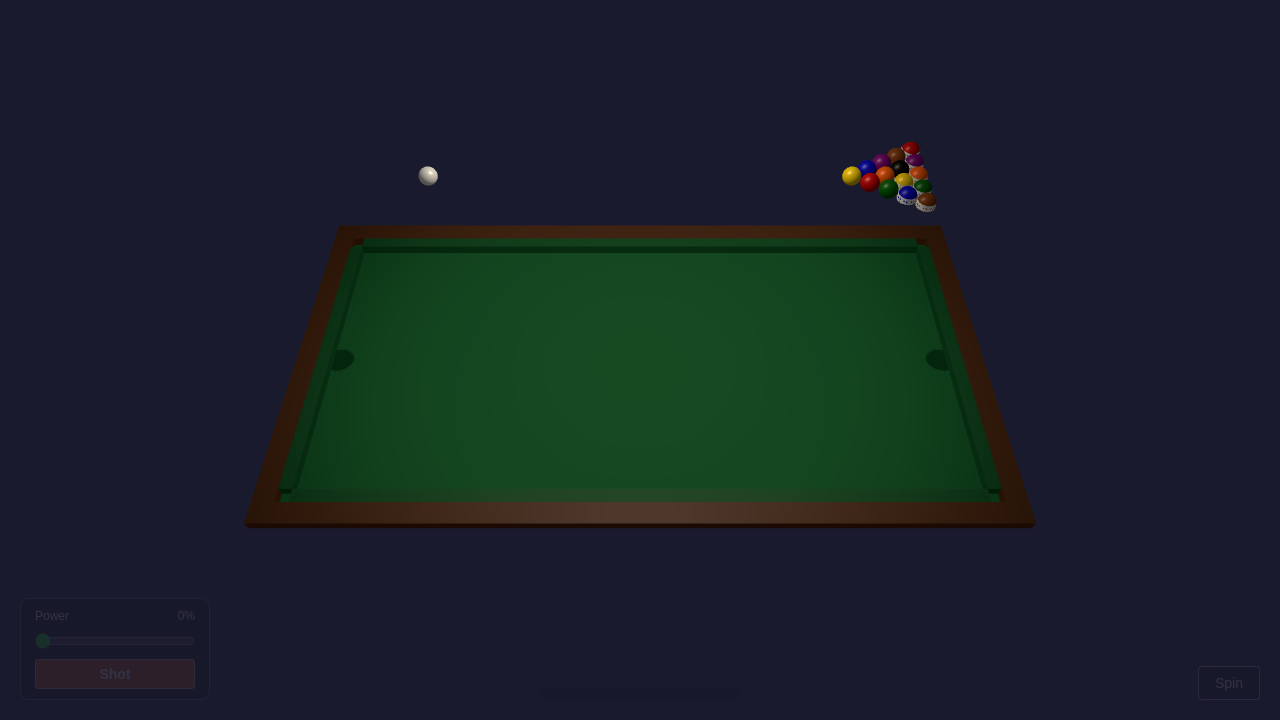
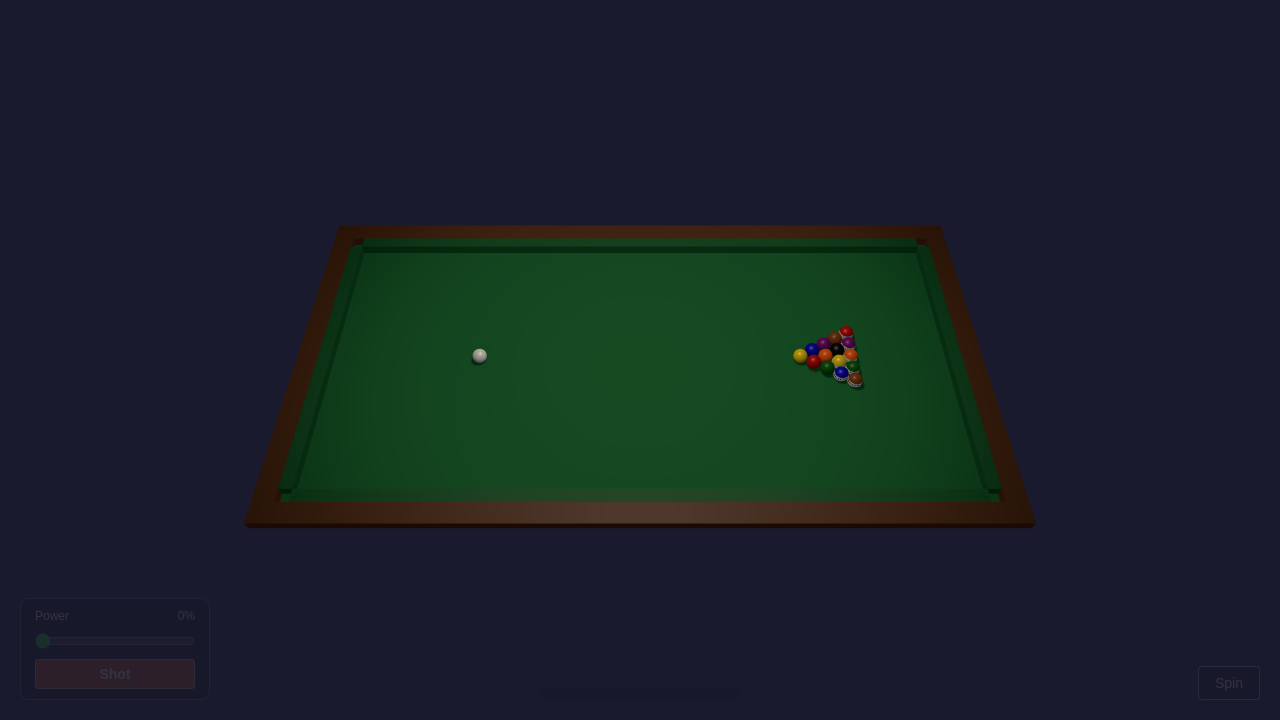
fix(render): physics→THREE Y-origin 對齊，球落絨布（Gate 0 render 視覺修正）
RENDER-001: 修正 ball-pool-physics.ts 三處 updateBallPosition 傳入 physics
絕對 Y（≈0.944m）的 bug——改為 toFloat(y - TABLE_Y) 得到場景相對 Y（≈0.028m），
讓球落在絨布上而非懸浮空中。

同步強化 smoke：
- 新增 RENDER-001 unit 2 tests（placeBall/start 橋接座標驗證）
- render-smoke.spec.ts 新增 pixel-sampling 斷言：drawImage WebGL canvas
  到 2D offscreen，驗 top-20% 幾乎無內容像素（<1%）、middle 60% 有顯著
  table cloth 內容（153757 px），有效防止球浮空 regression 再次溜過
- THREE renderer 加 preserveDrawingBuffer:true 使 pixel sampling 可行
- vite.config.ts exclude tests/smoke/ 避免 Vitest 誤跑 Playwright 檔

diff --git a/tests/smoke/render-smoke.spec.ts b/tests/smoke/render-smoke.spec.ts
@@ -197,4 +197,78 @@ test.describe('Gate 0 render smoke', () => {
     });
     expect(fs.existsSync(path.join(SCREENSHOT_DIR, '03-power-slider-70.png'))).toBe(true);
   });
+
+  test('RENDER-001 regression: balls on table cloth (not floating at top of canvas)', async ({ page }) => {
+    // Regression guard for the physics→THREE Y-origin bug.
+    // Bug: balls passed physics Y≈0.944m raw → rendered above the camera field, at top of canvas.
+    // Fix: subtract TABLE_Y so scene Y≈0.028m → balls appear in the middle 60% of canvas.
+    //
+    // Strategy: with preserveDrawingBuffer=true on the THREE renderer, drawImage copies
+    // the WebGL canvas into an off-screen 2D canvas so we can read pixel data.
+    // Then we assert:
+    //   (a) the top 20% of the canvas has very few non-background pixels
+    //       (background = scene color 0x1a1a2e ≈ rgb(26,26,46))
+    //   (b) the middle 60% (where table cloth lives) has substantially more content
+    await page.goto(BASE_URL, { waitUntil: 'networkidle' });
+    await page.waitForTimeout(2500); // allow first rAF render frame to complete
+
+    const result = await page.evaluate(() => {
+      const glCanvas = document.querySelector('canvas') as HTMLCanvasElement | null;
+      if (!glCanvas) return { ok: false, reason: 'no canvas', topPx: 0, midPx: 0 };
+
+      const w = glCanvas.width;
+      const h = glCanvas.height;
+      if (w === 0 || h === 0) return { ok: false, reason: 'canvas size=0', topPx: 0, midPx: 0 };
+
+      // Copy WebGL frame into an off-screen 2D canvas (requires preserveDrawingBuffer=true)
+      const offscreen = document.createElement('canvas');
+      offscreen.width = w;
+      offscreen.height = h;
+      const ctx2d = offscreen.getContext('2d');
+      if (!ctx2d) return { ok: false, reason: 'no 2d ctx', topPx: 0, midPx: 0 };
+      ctx2d.drawImage(glCanvas, 0, 0);
+
+      const allData = ctx2d.getImageData(0, 0, w, h).data;
+
+      // Background colour 0x1a1a2e = rgb(26, 26, 46) — any pixel significantly
+      // brighter than this is "content" (cloth, cushion, ball, or UI).
+      function countContent(yStart: number, yEnd: number): number {
+        let n = 0;
+        for (let row = yStart; row < yEnd; row++) {
+          for (let col = 0; col < w; col++) {
+            const i = (row * w + col) * 4;
+            const r = allData[i], g = allData[i + 1], b = allData[i + 2];
+            // Background is ~(26,26,46) — content has at least one channel >60
+            if (r > 60 || g > 60 || b > 60) n++;
+          }
+        }
+        return n;
+      }
+
+      const topBand   = Math.floor(h * 0.20);   // top 20% — should be mostly background
+      const midStart  = Math.floor(h * 0.20);
+      const midEnd    = Math.floor(h * 0.80);   // middle 60% — table cloth lives here
+
+      const topPx = countContent(0, topBand);
+      const midPx = countContent(midStart, midEnd);
+
+      // Pass conditions:
+      //   1. top band has < 1% of its pixels as content (balls not floating at top)
+      //   2. middle band has at least 5× more content than the top band
+      //      (the table cloth + balls are visible in the middle)
+      const topArea  = topBand * w;
+      const topRatio = topPx / topArea;
+      const ok = topRatio < 0.01 && midPx > topPx * 5;
+
+      return {
+        ok,
+        reason: `top-band ${(topRatio * 100).toFixed(2)}% content (want <1%), midPx=${midPx} topPx=${topPx}`,
+        topPx,
+        midPx,
+      };
+    });
+
+    console.log(`RENDER-001 regression: ${result.reason}`);
+    expect(result.ok).toBe(true);
+  });
 });

diff --git a/src/__tests__/game/ball-pool-physics.test.ts b/src/__tests__/game/ball-pool-physics.test.ts
@@ -661,3 +661,58 @@ describe('PHY-009 analytic SphereCast: cushion detection geometry', () => {
     expect(hit.hitType).toBe('none');
   });
 });
+
+// ─── Render bridge coordinate fix (RENDER-001) ──────────────────────────────
+// Physics world: table surface at Y = TABLE_Y/MULTIPLIER ≈ 0.9154m
+// Scene world:   table surface at Y = 0
+// Bridge must subtract TABLE_Y so ball visuals land at ~BALL_RADIUS above scene cloth.
+
+describe('RENDER-001: updateBallPosition Y is scene-space (table at Y=0)', () => {
+  it('placeBall() passes scene-space Y ≈ BALL_RADIUS to renderer (not physics absolute Y)', () => {
+    const capturedY: number[] = [];
+    const trackedScene: SceneAPI = {
+      ...mockScene,
+      updateBallPosition: (_id: number, _x: number, y: number, _z: number) => {
+        capturedY.push(y);
+      },
+    };
+    const { space } = makeGV01Space();
+    const physics = createBallPoolPhysics(space, trackedScene);
+    physics.placeBall(0, new CmVector(0, BALL_Y, 0));
+
+    // Physics BALL_Y = 9440 Fixed → toFloat = 0.944m (WRONG for scene)
+    // Correct: BALL_Y - TABLE_Y = 286 Fixed → 0.0286m ≈ BALL_RADIUS_FLOAT
+    const BALL_RADIUS_FLOAT = BALL_RADIUS / 10000;
+    const lastY = capturedY[capturedY.length - 1];
+    expect(lastY).toBeGreaterThan(BALL_RADIUS_FLOAT - 0.005);
+    expect(lastY).toBeLessThan(BALL_RADIUS_FLOAT + 0.005);
+  });
+
+  it('start() initial body sync passes scene-space Y to renderer for all bodies', () => {
+    const yValues: number[] = [];
+    const trackedScene: SceneAPI = {
+      ...mockScene,
+      updateBallPosition: (_id, _x, y, _z) => { yValues.push(y); },
+    };
+    const { space } = makeGV01Space();
+    const physics = createBallPoolPhysics(space, trackedScene);
+
+    // start() synchronously calls updateBallPosition for all rigidbodies before requestAnimationFrame.
+    // Mock rAF so node test env doesn't throw "requestAnimationFrame is not defined".
+    const origRaf = (globalThis as unknown as Record<string, unknown>).requestAnimationFrame;
+    (globalThis as unknown as Record<string, unknown>).requestAnimationFrame = () => 0;
+    try {
+      physics.start();
+    } finally {
+      (globalThis as unknown as Record<string, unknown>).requestAnimationFrame = origRaf;
+    }
+
+    // All bodies' Y values must be in scene-space (≈ BALL_RADIUS above table at Y=0)
+    const BALL_RADIUS_FLOAT = BALL_RADIUS / 10000;
+    expect(yValues.length).toBeGreaterThan(0);
+    for (const y of yValues) {
+      expect(y).toBeGreaterThan(BALL_RADIUS_FLOAT - 0.005);
+      expect(y).toBeLessThan(0.10);  // never more than 10cm above cloth
+    }
+  });
+});

diff --git a/src/game/ball-pool-physics.ts b/src/game/ball-pool-physics.ts
@@ -24,7 +24,7 @@ import type { SceneAPI } from '../renderer/scene';
 import {
   BALL_RADIUS, BALL_MASS, MAX_FORCE,
   SPACE_SCALE_X, SPACE_SCALE_Z,
-  BALL_Y, RAIL_LONG_X,
+  BALL_Y, RAIL_LONG_X, TABLE_Y,
 } from '../physics/constants';
 import { simulateToCompletion, MAX_SIM_STEPS } from '../physics/simulate';
 export type { SimFrame } from '../physics/simulate';
@@ -257,7 +257,7 @@ export function createBallPoolPhysics(space: CmSpace, renderer: SceneAPI): IBall
   function syncFrame(idx: number): void {
     const frame = _frames[idx];
     for (const p of frame.positions) {
-      renderer.updateBallPosition(p.id, toFloat(p.x), toFloat(p.y), toFloat(p.z));
+      renderer.updateBallPosition(p.id, toFloat(p.x), toFloat(p.y - TABLE_Y), toFloat(p.z));
     }
   }
 
@@ -464,7 +464,7 @@ export function createBallPoolPhysics(space: CmSpace, renderer: SceneAPI): IBall
         renderer.updateBallPosition(
           body.id,
           toFloat(body.collider.position.x),
-          toFloat(body.collider.position.y),
+          toFloat(body.collider.position.y - TABLE_Y),
           toFloat(body.collider.position.z),
         );
       }
@@ -512,7 +512,7 @@ export function createBallPoolPhysics(space: CmSpace, renderer: SceneAPI): IBall
       body.isKinematic = false;
       body.isOutOfCube = false;
       body.isActive = false;   // setter also zeros velocity + angularVelocity
-      renderer.updateBallPosition(id, toFloat(position.x), toFloat(position.y), toFloat(position.z));
+      renderer.updateBallPosition(id, toFloat(position.x), toFloat(position.y - TABLE_Y), toFloat(position.z));
     },
 
     respotCueBall(): void {

diff --git a/src/renderer/scene.ts b/src/renderer/scene.ts
@@ -53,7 +53,8 @@ export interface SceneAPI {
 
 export function createScene(container: HTMLElement): SceneAPI {
   // Renderer
-  const renderer = new THREE.WebGLRenderer({ antialias: true });
+  // preserveDrawingBuffer: allows Playwright/pixel-sampling smoke tests to read canvas pixels
+  const renderer = new THREE.WebGLRenderer({ antialias: true, preserveDrawingBuffer: true });
   renderer.setSize(container.clientWidth || window.innerWidth, container.clientHeight || window.innerHeight);
   renderer.setPixelRatio(window.devicePixelRatio);
   renderer.shadowMap.enabled = true;

diff --git a/vite.config.ts b/vite.config.ts
@@ -5,6 +5,7 @@ export default defineConfig({
   test: {
     globals: false,
     environment: 'node',
+    exclude: ['**/node_modules/**', '**/tests/smoke/**'],
     testTimeout: 30000, // fuzz-parity: 1000 cases × ~713-step sims need >5s with accurate cloth friction
     server: {
       deps: {